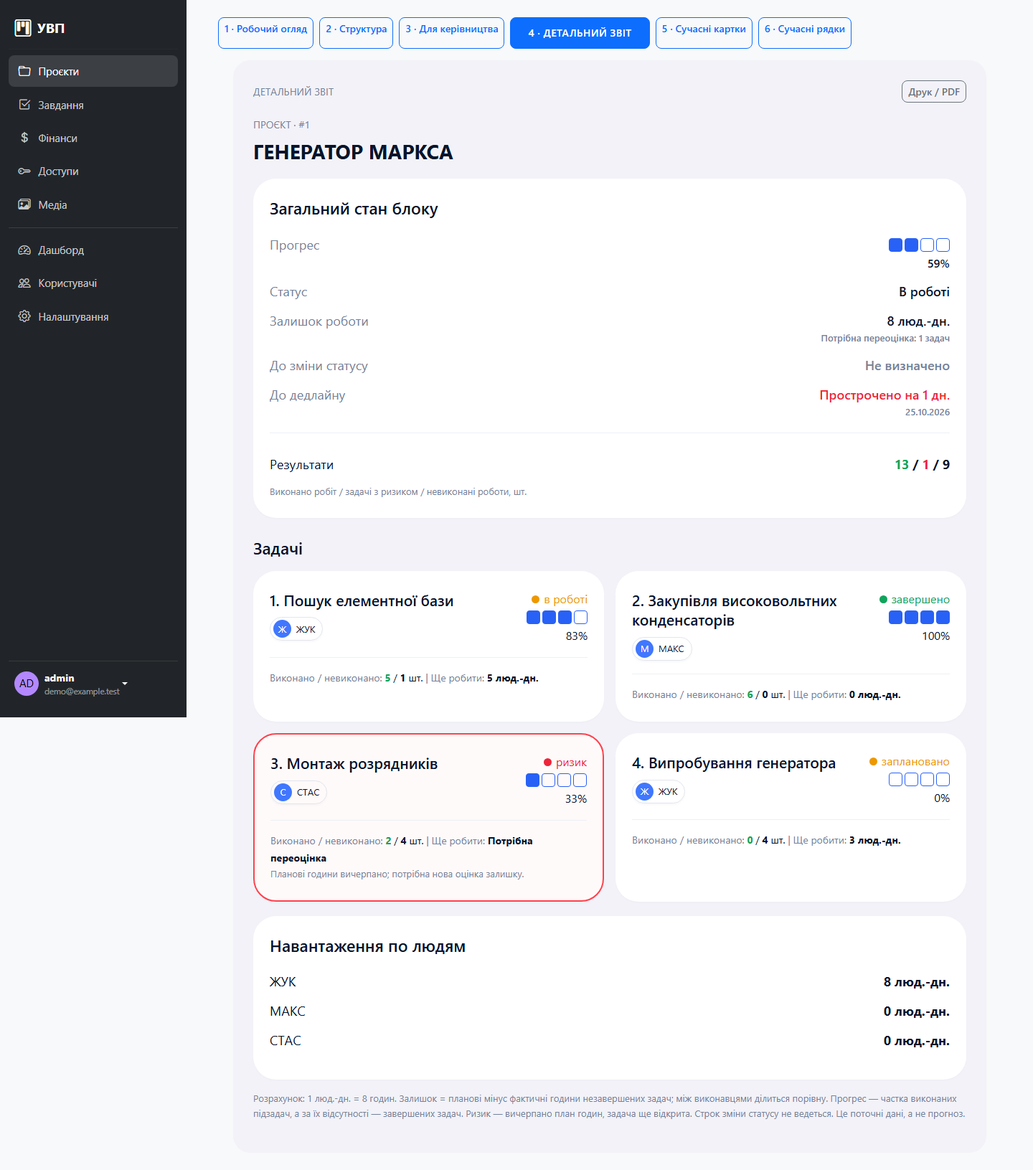
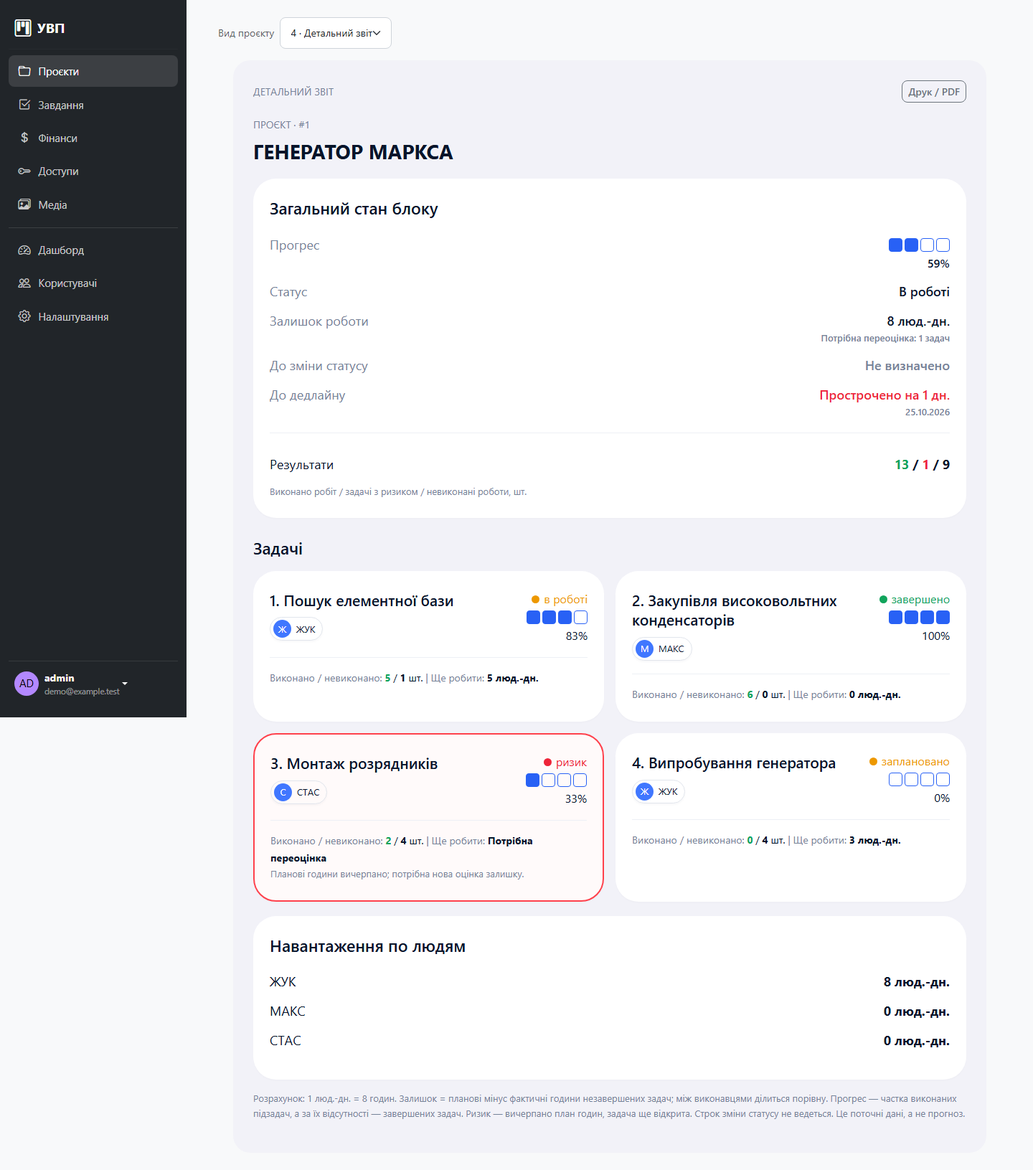
feat: add project view dropdown and workday estimates

Changed region(s): [[0.4062, 0.0, 0.7188, 0.0613], [0.2188, 0.0, 0.375, 0.0307], [0.75, 0.0, 0.8125, 0.0307]]

diff --git a/templates/projects/medusa_report.html b/templates/projects/medusa_report.html
@@ -14,7 +14,7 @@
             <div class="dropdown-menu dropdown-menu-end p-3" style="min-width:260px">
                 <label for="medusaTheme" class="form-label small fw-bold">Тема цього режиму</label>
                 <select id="medusaTheme" class="form-select form-select-sm mb-3"><option value="default">Стандартна</option><option value="ocean">Океан</option><option value="forest">Ліс</option><option value="graphite">Графіт</option><option value="sand">Пісок</option></select>
-                {% for key, label in [('participants','Виконавці'),('progress','Прогрес'),('deadlines','Строки'),('results','Результати'),('estimates','Залишок роботи'),('workload','Навантаження по людям')] %}
+                {% for key, label in [('participants','Виконавці'),('progress','Прогрес'),('deadlines','Строки'),('results','Результати'),('estimates','План, витрачено та залишок'),('workload','Навантаження по людям')] %}
                 <div class="form-check form-switch mb-2"><input id="medusa-{{ key }}" class="form-check-input medusa-toggle" type="checkbox" data-section="{{ key }}" checked><label class="form-check-label small" for="medusa-{{ key }}">{{ label }}</label></div>
                 {% endfor %}
                 {% if report_show_tasks %}<div class="form-check form-switch mb-2"><input id="medusa-tasks" class="form-check-input medusa-toggle" type="checkbox" data-section="tasks" checked><label class="form-check-label small" for="medusa-tasks">Задачі</label></div>{% endif %}
@@ -28,6 +28,8 @@
         <div class="medusa-tile" data-medusa-section="deadlines"><span>До дедлайну</span><strong class="{{ 'medusa-negative' if report.overdue_days and project.status != 'finished' else '' }}">{% if project.status == 'finished' %}Завершено{% elif report.deadline_days is none %}Не вказано{% elif report.overdue_days %}Прострочено {{ report.overdue_days }} дн.{% elif report.deadline_days == 0 %}Сьогодні{% else %}{{ report.deadline_days }} дн.{% endif %}</strong></div>
         <div class="medusa-tile" data-medusa-section="results"><span>Виконано / ризики</span><strong><span class="medusa-positive">{{ report.done }}</span> / <span class="medusa-negative">{{ report.risks }}</span></strong></div>
         <div class="medusa-tile" data-medusa-section="results"><span>Невиконано робіт</span><strong>{{ report.pending }}</strong></div>
+        <div class="medusa-tile" data-medusa-section="estimates"><span>План роботи</span><strong>{{ '%g'|format(report.planned_days) }} люд.-дн.</strong>{% if report.unestimated %}<small>Без оцінки: {{ report.unestimated }} задач</small>{% endif %}</div>
+        <div class="medusa-tile" data-medusa-section="estimates"><span>Витрачено</span><strong>{{ '%g'|format(report.spent_days) }} люд.-дн.</strong></div>
         <div class="medusa-tile" data-medusa-section="estimates"><span>Залишок роботи</span><strong>{{ '%g'|format(report.remaining_days) }} люд.-дн.</strong>{% if report.unestimated or report.risks %}<small>Є задачі без актуальної оцінки</small>{% endif %}</div>
     </div>
     {% if report_show_tasks %}
@@ -38,7 +40,7 @@
         <article class="medusa-task {{ 'is-risk' if row.risk else '' }}" data-task-search="{{ row.task.title|lower }} {{ row.people|map(attribute='username')|join(' ')|lower }}">
             <div class="medusa-task-main"><div class="medusa-task-title"><h3>{{ loop.index }}. {{ row.task.title }}</h3><span class="medusa-badge">{{ 'Ризик' if row.risk else ('Завершено' if row.task.status == 'done' else ('В роботі' if row.task.status == 'in_progress' else 'Не розпочато')) }}</span></div><div class="medusa-people" data-medusa-section="participants">{% for person in row.people %}<span><b>{{ person.username[:1]|upper }}</b>{{ person.username }}</span>{% else %}<small>Виконавця не призначено</small>{% endfor %}</div></div>
             <div class="medusa-task-progress" data-medusa-section="progress"><strong>{{ row.progress }}%</strong><div class="medusa-track"><span style="width:{{ row.progress }}%"></span></div><div class="medusa-scale"><span>0%</span><span>25%</span><span>50%</span><span>75%</span><span>100%</span></div></div>
-            <div class="medusa-task-metrics"><div data-medusa-section="results"><span>Виконано / невиконано</span><strong><span class="medusa-positive">{{ row.done }}</span> / {{ row.pending }}</strong></div><div data-medusa-section="estimates"><span>Залишок роботи</span><strong>{% if row.risk %}Переоцінити{% elif row.unestimated %}Не оцінено{% else %}{{ '%g'|format(row.remaining_days) }} люд.-дн.{% endif %}</strong></div></div>
+            <div class="medusa-task-metrics"><div data-medusa-section="results"><span>Виконано / невиконано</span><strong><span class="medusa-positive">{{ row.done }}</span> / {{ row.pending }}</strong></div><div data-medusa-section="estimates"><span>План</span><strong>{{ ('%g'|format(row.planned_days) ~ ' люд.-дн.') if row.planned_days else 'Не оцінено' }}</strong></div><div data-medusa-section="estimates"><span>Витрачено</span><strong>{{ '%g'|format(row.spent_days) }} люд.-дн.</strong></div><div data-medusa-section="estimates"><span>Ще робити</span><strong>{% if row.risk %}Переоцінити{% elif row.unestimated %}Не оцінено{% else %}{{ '%g'|format(row.remaining_days) }} люд.-дн.{% endif %}</strong></div>{% if is_owner %}<a class="medusa-edit-estimate" href="{{ url('tasks:task_edit', pk=row.task.id) }}" data-medusa-section="estimates">Змінити оцінку →</a>{% endif %}</div>
         </article>
         {% else %}<p class="medusa-note">У проєкті ще немає задач.</p>{% endfor %}
         </div>
@@ -46,7 +48,7 @@
     </section>
     {% endif %}
     <section class="medusa-workload" data-medusa-section="workload"><h2>Залишок навантаження за людьми</h2><div>{% for name, days in report.workload %}<span><b>{{ name[:1]|upper }}</b>{{ name }} <strong>{{ '%g'|format(days) }} люд.-дн.</strong></span>{% else %}<p class="medusa-note">Виконавців не призначено.</p>{% endfor %}{% if report.unassigned_days %}<span>Не призначено <strong>{{ '%g'|format(report.unassigned_days) }} люд.-дн.</strong></span>{% endif %}</div></section>
-    <p class="medusa-note">1 люд.-дн. = 8 годин. Прогрес — виконані роботи / усі роботи. Ризик — план годин вичерпано, задача ще відкрита. Залишок між виконавцями ділиться порівну. Дата зміни статусу й окремі позитивні/негативні результати не ведуться.</p>
+    <p class="medusa-note">1 люд.-дн. = 8 робочих годин, це не календарна дата завершення. План та витрачено беруться з оцінки й обліку часу задачі. Ще робити = план мінус витрачено для незавершених задач. Ризик — план вичерпано, потрібна переоцінка залишку. Залишок між виконавцями ділиться порівну. Дата зміни статусу й окремі позитивні/негативні результати не ведуться.</p>
 </section>
 </main>
 {% include 'projects/medusa_controls.html' %}

diff --git a/templates/projects/mode_switch.html b/templates/projects/mode_switch.html
@@ -1,15 +1,19 @@
-<nav class="uvp-mode-switch d-flex flex-wrap gap-2 mb-3" aria-label="Режим перегляду" data-project="{{ project.id }}">
-    <a class="btn btn-sm btn-outline-primary" data-mode="1" href="{{ url('projects:project_detail', pk=project.id) }}?mode=1">1 · Робочий огляд</a>
-    <a class="btn btn-sm btn-outline-primary" data-mode="2" href="{{ url('projects:structure', pk=project.id) }}">2 · Структура</a>
-    <a class="btn btn-sm btn-outline-primary" data-mode="3" href="{{ url('projects:project_detail', pk=project.id) }}?mode=3">3 · Для керівництва</a>
-    <a class="btn btn-sm btn-outline-primary" data-mode="4" href="{{ url('projects:project_detail', pk=project.id) }}?mode=4">4 · Детальний звіт</a>
-    <a class="btn btn-sm btn-outline-primary" data-mode="5" href="{{ url('projects:project_detail', pk=project.id) }}?mode=5">5 · Сучасні картки</a>
-    <a class="btn btn-sm btn-outline-primary" data-mode="6" href="{{ url('projects:project_detail', pk=project.id) }}?mode=6">6 · Сучасні рядки</a>
+<nav class="uvp-mode-switch d-flex align-items-center gap-2 mb-3" aria-label="Режим перегляду" data-project="{{ project.id }}">
+    <label for="projectModeSelect" class="small text-muted mb-0">Вид проєкту</label>
+    <select id="projectModeSelect" class="form-select form-select-sm" style="width:auto;max-width:100%;" aria-label="Вид проєкту">
+        <option data-mode="1" value="{{ url('projects:project_detail', pk=project.id) }}?mode=1">1 · Робочий огляд</option>
+        <option data-mode="2" value="{{ url('projects:structure', pk=project.id) }}">2 · Структура</option>
+        <option data-mode="3" value="{{ url('projects:project_detail', pk=project.id) }}?mode=3">3 · Для керівництва</option>
+        <option data-mode="4" value="{{ url('projects:project_detail', pk=project.id) }}?mode=4">4 · Детальний звіт</option>
+        <option data-mode="5" value="{{ url('projects:project_detail', pk=project.id) }}?mode=5">5 · Сучасні картки</option>
+        <option data-mode="6" value="{{ url('projects:project_detail', pk=project.id) }}?mode=6">6 · Сучасні рядки</option>
+    </select>
 </nav>
 <script>
 (() => {
     const nav = document.currentScript.previousElementSibling;
-    const links = [...nav.querySelectorAll('[data-mode]')];
+    const select = nav.querySelector('select');
+    const links = [...select.options];
     const params = new URLSearchParams(location.search);
     const structure = location.pathname.endsWith('/structure/');
     const mode = structure ? '2' : (params.get('mode') || '1');
@@ -22,17 +26,18 @@
             }).observe(toolbar);
         }
     }
-    links.forEach(link => {
-        if (link.dataset.mode === mode) {
-            link.classList.replace('btn-outline-primary', 'btn-primary');
-            link.setAttribute('aria-current', 'page');
-        }
-        link.addEventListener('click', () => { try { localStorage.setItem(key, link.dataset.mode); } catch (_) {} });
+    const activate = value => links.forEach(option => { option.selected = option.dataset.mode === value; });
+    activate(links.some(option => option.dataset.mode === mode) ? mode : '1');
+    nav.addEventListener('uvp-mode-change', event => activate(event.detail.mode));
+    select.addEventListener('change', () => {
+        const option = select.selectedOptions[0];
+        try { localStorage.setItem(key, option.dataset.mode); } catch (_) {}
+        location.assign(option.value);
     });
     try {
         const saved = localStorage.getItem(key);
         if (!structure && !params.has('mode') && links.some(link => link.dataset.mode === saved) && saved !== '1') {
-            location.replace(links.find(link => link.dataset.mode === saved).href);
+            location.replace(links.find(link => link.dataset.mode === saved).value);
         }
     } catch (_) {}
 })();

diff --git a/templates/tasks/task_form.html b/templates/tasks/task_form.html
@@ -11,24 +11,28 @@
                     <form method="post">
                         <input type="hidden" name="csrfmiddlewaretoken" value="{{ csrf_token }}">
                         <div class="d-none">{{ form.project }}</div>
+                        {{ form.non_field_errors() }}
 
                         <div class="mb-3">
                             <label class="form-label">{{ _('Название задачи') }}</label>
                             {{ form.title }}
                         </div>
 
+                        <div class="mb-3"><label for="id_time_unit" class="form-label">Одиниця часу</label>{{ form.time_unit }}<div class="form-text">1 люд.-дн. = 8 робочих годин. Дробові значення дозволені.</div>{{ form.time_unit.errors }}</div>
                         <div class="row mb-3">
                             <div class="col-12 col-md-4 mb-3 mb-md-0">
                                 <label class="form-label">{{ _('Статус') }}</label>
                                 {{ form.status }}
                             </div>
                             <div class="col-6 col-md-4 mb-3 mb-md-0">
-                                <label class="form-label">{{ _('План (ч)') }}</label>
+                                <label class="form-label" id="taskPlanLabel" for="id_estimated_time">{{ _('План (ч)') }}</label>
                                 {{ form.estimated_time }}
+                                {{ form.estimated_time.errors }}
                             </div>
                             <div class="col-6 col-md-4">
-                                <label class="form-label">{{ _('Факт (ч)') }}</label>
+                                <label class="form-label" id="taskSpentLabel" for="id_actual_time">{{ _('Факт (ч)') }}</label>
                                 {{ form.actual_time }}
+                                {{ form.actual_time.errors }}
                             </div>
                         </div>
 
@@ -52,4 +56,26 @@
             </div>
         </div>
     </div>
+{% endblock %}
+{% block extra_js %}
+<script>
+(() => {
+    const unit = document.getElementById('id_time_unit');
+    let previous = unit.value || 'hours';
+    const label = () => {
+        const suffix = unit.value === 'days' ? 'люд.-дн.' : 'год.';
+        document.getElementById('taskPlanLabel').textContent = `План (${suffix})`;
+        document.getElementById('taskSpentLabel').textContent = `Факт (${suffix})`;
+    };
+    label();
+    unit.addEventListener('change', () => {
+        const factor = previous === 'days' && unit.value === 'hours' ? 8 : (previous === 'hours' && unit.value === 'days' ? 1 / 8 : 1);
+        ['id_estimated_time', 'id_actual_time'].forEach(id => {
+            const field = document.getElementById(id);
+            if (field.value !== '' && Number.isFinite(Number(field.value))) field.value = Number((Number(field.value) * factor).toFixed(6));
+        });
+        previous = unit.value; label();
+    });
+})();
+</script>
 {% endblock %}

diff --git a/templates/projects/medusa_controls.html b/templates/projects/medusa_controls.html
@@ -31,11 +31,7 @@
         const current = new URL(location.href); current.searchParams.set('mode', mode);
         history.replaceState(null, '', current.href);
         try { localStorage.setItem('uvp-project-mode-{{ project.id }}', mode); } catch (_) {}
-        document.querySelectorAll('.uvp-mode-switch [data-mode]').forEach(link => {
-            link.classList.toggle('btn-primary', link.dataset.mode === mode);
-            link.classList.toggle('btn-outline-primary', link.dataset.mode !== mode);
-            if (link.dataset.mode === mode) link.setAttribute('aria-current', 'page'); else link.removeAttribute('aria-current');
-        });
+        document.querySelector('.uvp-mode-switch').dispatchEvent(new CustomEvent('uvp-mode-change', {detail: {mode}}));
     });
     toggles.forEach(toggle => toggle.addEventListener('change', () => { apply(toggle); save(scopedKey(toggle.dataset.section), toggle.checked ? 'visible' : 'hidden'); }));
     document.getElementById('medusaReset').addEventListener('click', () => {

diff --git a/templates/projects/medusa_styles.html b/templates/projects/medusa_styles.html
@@ -9,6 +9,8 @@
 </style>
 <style>
 .medusa-header>:first-child{min-width:0;flex:1}.medusa-header h1{overflow-wrap:anywhere}.medusa-task-main,.medusa-task-progress,.medusa-task-metrics{min-width:0}.medusa-task-title h3{min-width:0}
+.medusa-summary{grid-template-columns:repeat(4,minmax(0,1fr))}.medusa-task-metrics{display:grid;grid-template-columns:repeat(2,minmax(0,1fr))}.medusa-task-metrics>div{min-width:0;overflow-wrap:anywhere}.medusa-edit-estimate{grid-column:1/-1;font-size:11px;color:var(--report-muted);text-decoration:none}.medusa-edit-estimate:hover{text-decoration:underline}
+@media(max-width:850px){.medusa-summary{grid-template-columns:repeat(2,minmax(0,1fr))}}
 @media(max-width:850px){[data-layout="rows"] .medusa-task{grid-template-columns:minmax(0,1fr)}.medusa-toolbar select{min-width:0;width:auto}}
 @media(max-width:575px){.medusa-header{flex-wrap:wrap}.medusa-controls{margin-left:auto}}
 </style>

diff --git a/apps/projects/tests.py b/apps/projects/tests.py
@@ -158,3 +158,45 @@ class ManagementReportTests(TestCase):
         response = self.client.get(self.url, {'mode': '6'})
         self.assertEqual(response.status_code, 200)
         self.assertNotContains(response, 'Internal task')
+
+    def test_project_view_dropdown(self):
+        response = self.client.get(self.url, {'mode': '6'})
+        self.assertEqual(response.status_code, 200)
+        self.assertContains(response, 'id="projectModeSelect"')
+        self.assertContains(response, '<option data-mode=', count=6)
+
+    def test_task_form_days_conversion_and_report(self):
+        from apps.tasks.forms import TaskForm
+        form = TaskForm(data={
+            'title': 'Day estimate', 'status': 'in_progress', 'project': self.project.pk,
+            'time_unit': 'days', 'estimated_time': '2.5', 'actual_time': '0.75',
+        })
+        self.assertTrue(form.is_valid(), form.errors)
+        task = form.save()
+        self.assertEqual(task.estimated_time, 20)
+        self.assertEqual(task.actual_time, 6)
+        report = management_report(self.project)
+        self.assertEqual(report['planned_days'], 2.5)
+        self.assertEqual(report['spent_days'], 0.75)
+        self.assertEqual(report['remaining_days'], 1.75)
+        self.assertEqual(report['rows'][0]['planned_days'], 2.5)
+
+    def test_task_form_legacy_hours_and_negative_values(self):
+        from apps.tasks.forms import TaskForm
+        data = {'title': 'Hours', 'status': 'todo', 'project': self.project.pk,
+                'estimated_time': '16', 'actual_time': '4'}
+        form = TaskForm(data=data)
+        self.assertTrue(form.is_valid(), form.errors)
+        task = form.save()
+        self.assertEqual(task.estimated_time, 16)
+        self.assertEqual(task.actual_time, 4)
+        form = TaskForm(data={**data, 'time_unit': 'days', 'actual_time': '-1'})
+        self.assertFalse(form.is_valid())
+        self.assertIn('actual_time', form.errors)
+
+    def test_completed_task_days_keep_actual_time(self):
+        Task.objects.create(project=self.project, title='Done', status='done', estimated_time=8, actual_time=16)
+        report = management_report(self.project)
+        self.assertEqual(report['planned_days'], 1)
+        self.assertEqual(report['spent_days'], 2)
+        self.assertEqual(report['remaining_days'], 0)

diff --git a/apps/tasks/forms.py b/apps/tasks/forms.py
@@ -8,6 +8,10 @@ User = get_user_model()
 
 
 class TaskForm(forms.ModelForm):
+    time_unit = forms.ChoiceField(
+        choices=[('hours', 'Години'), ('days', 'Людино-дні (8 годин)')],
+        initial='hours', required=False, label='Одиниця часу',
+    )
     class Meta:
         model = Task
         fields = ['title', 'status', 'estimated_time', 'actual_time', 'project', 'u_users', 'u_tags']
@@ -18,6 +22,7 @@ class TaskForm(forms.ModelForm):
             field.widget.attrs['class'] = 'form-control'
         self.fields['u_users'].widget.attrs['class'] = 'form-select'
         self.fields['u_tags'].widget.attrs['class'] = 'form-select'
+        self.fields['time_unit'].widget.attrs['class'] = 'form-select'
 
         project_id = None
         if self.instance.pk and self.instance.project:
@@ -37,3 +42,15 @@ class TaskForm(forms.ModelForm):
                 pass
         else:
             self.fields['u_users'].queryset = User.objects.none()
+
+    def clean(self):
+        data = super().clean()
+        multiplier = 8 if data.get('time_unit') == 'days' else 1
+        for name in ('estimated_time', 'actual_time'):
+            value = data.get(name)
+            if value is not None:
+                if value < 0:
+                    self.add_error(name, 'Час не може бути від’ємним.')
+                else:
+                    data[name] = value * multiplier
+        return data

diff --git a/apps/projects/reporting.py b/apps/projects/reporting.py
@@ -24,6 +24,8 @@ def management_report(project, tasks=None):
             'task': task, 'people': people, 'progress': progress,
             'segments': (progress * 4 + 50) // 100,
             'remaining_days': remaining / 8, 'risk': risk,
+            'planned_days': max(task.estimated_time, 0) / 8,
+            'spent_days': max(task.actual_time, 0) / 8,
             'done': completed if subtasks else int(task.status == 'done'),
             'pending': len(subtasks) - completed if subtasks else int(task.status != 'done'),
             'unestimated': task.status != 'done' and task.estimated_time <= 0,
@@ -36,6 +38,8 @@ def management_report(project, tasks=None):
     return {
         'rows': rows, 'progress': progress, 'segments': (progress * 4 + 50) // 100,
         'remaining_days': sum(r['remaining_days'] for r in rows),
+        'planned_days': sum(r['planned_days'] for r in rows),
+        'spent_days': sum(r['spent_days'] for r in rows),
         'done': done, 'risks': sum(r['risk'] for r in rows),
         'pending': pending,
         'unestimated': sum(r['unestimated'] for r in rows),

diff --git a/README.md b/README.md
@@ -6,7 +6,7 @@
 
 ## Режимы просмотра
 
-В списке проектов режим выбирается в меню **«Вигляд»**, внутри проекта — переключателем над содержимым. Прежние рабочие экраны сохранены. Выбор запоминается в браузере отдельно для списка и для каждого проекта.
+В списке проектов режим выбирается в меню **«Вигляд»**, внутри проекта — в выпадающем списке **«Вид проєкту»** над содержимым. Прежние рабочие экраны сохранены. Выбор запоминается в браузере отдельно для списка и для каждого проекта.
 
 | Режим | Список проектов | Внутри проекта |
 | --- | --- | --- |
@@ -143,6 +143,10 @@
 
 ## Как считаются показатели
 
+В современных карточках и строках показываются **план**, **затрачено** и **ещё работать** для каждой задачи и проекта в целом. Владелец может перейти по ссылке «Змінити оцінку» в форму задачи и выбрать единицу ввода: часы или человеко-дни. При смене единицы уже введённые числа пересчитываются; 2,5 человеко-дня соответствуют 20 часам. Существующие часовые оценки сохраняют прежний смысл. Отдельных изменений базы данных для этого не требуется.
+
+![Оценка задачи в рабочих днях](docs/image/29_task_workdays.png)
+
 - **Прогресс отчёта** — доля выполненных подзадач; задача без подзадач считается одной работой. Завершённая задача считается полностью выполненной. В прежних рабочих карточках прогресс по-прежнему считается по завершённым задачам, поэтому показатели разных представлений могут отличаться.
 - **Остаток работы** — плановые минус фактические часы незавершённых задач, не меньше нуля. Один человеко-день равен **8 часам**.
 - **Нагрузка по людям** — остаток часов задачи делится поровну между назначенными исполнителями. Неназначенная работа показывается отдельно.
@@ -230,7 +234,7 @@ $env:DB_NAME = ':memory:'
 python manage.py test apps.projects
 ```
 
-При подготовке этой версии прошли **12 тестов**: дополнительно проверяются наличие блоков для каждого переключателя, финансовая сводка, группировка по статусам и доступ заказчика в новых видах. В браузере проверены все семь режимов, темы, отдельное сохранение настроек, сброс, поиск в современном обзоре, обе её раскладки и мобильная вёрстка.
+При подготовке этой версии прошли **16 тестов**: дополнительно проверяются наличие блоков для каждого переключателя, финансовая сводка, группировка по статусам, доступ заказчика, выпадающий список видов и преобразование дней в часы. Проверяются сохранение старых часовых значений, отрицательные оценки и фактическое время завершённых задач. В браузере проверены темы, сохранение настроек, поиск, обе современные раскладки, выбор вида и мобильная вёрстка.
 
 ### Добавление новых видов
 
